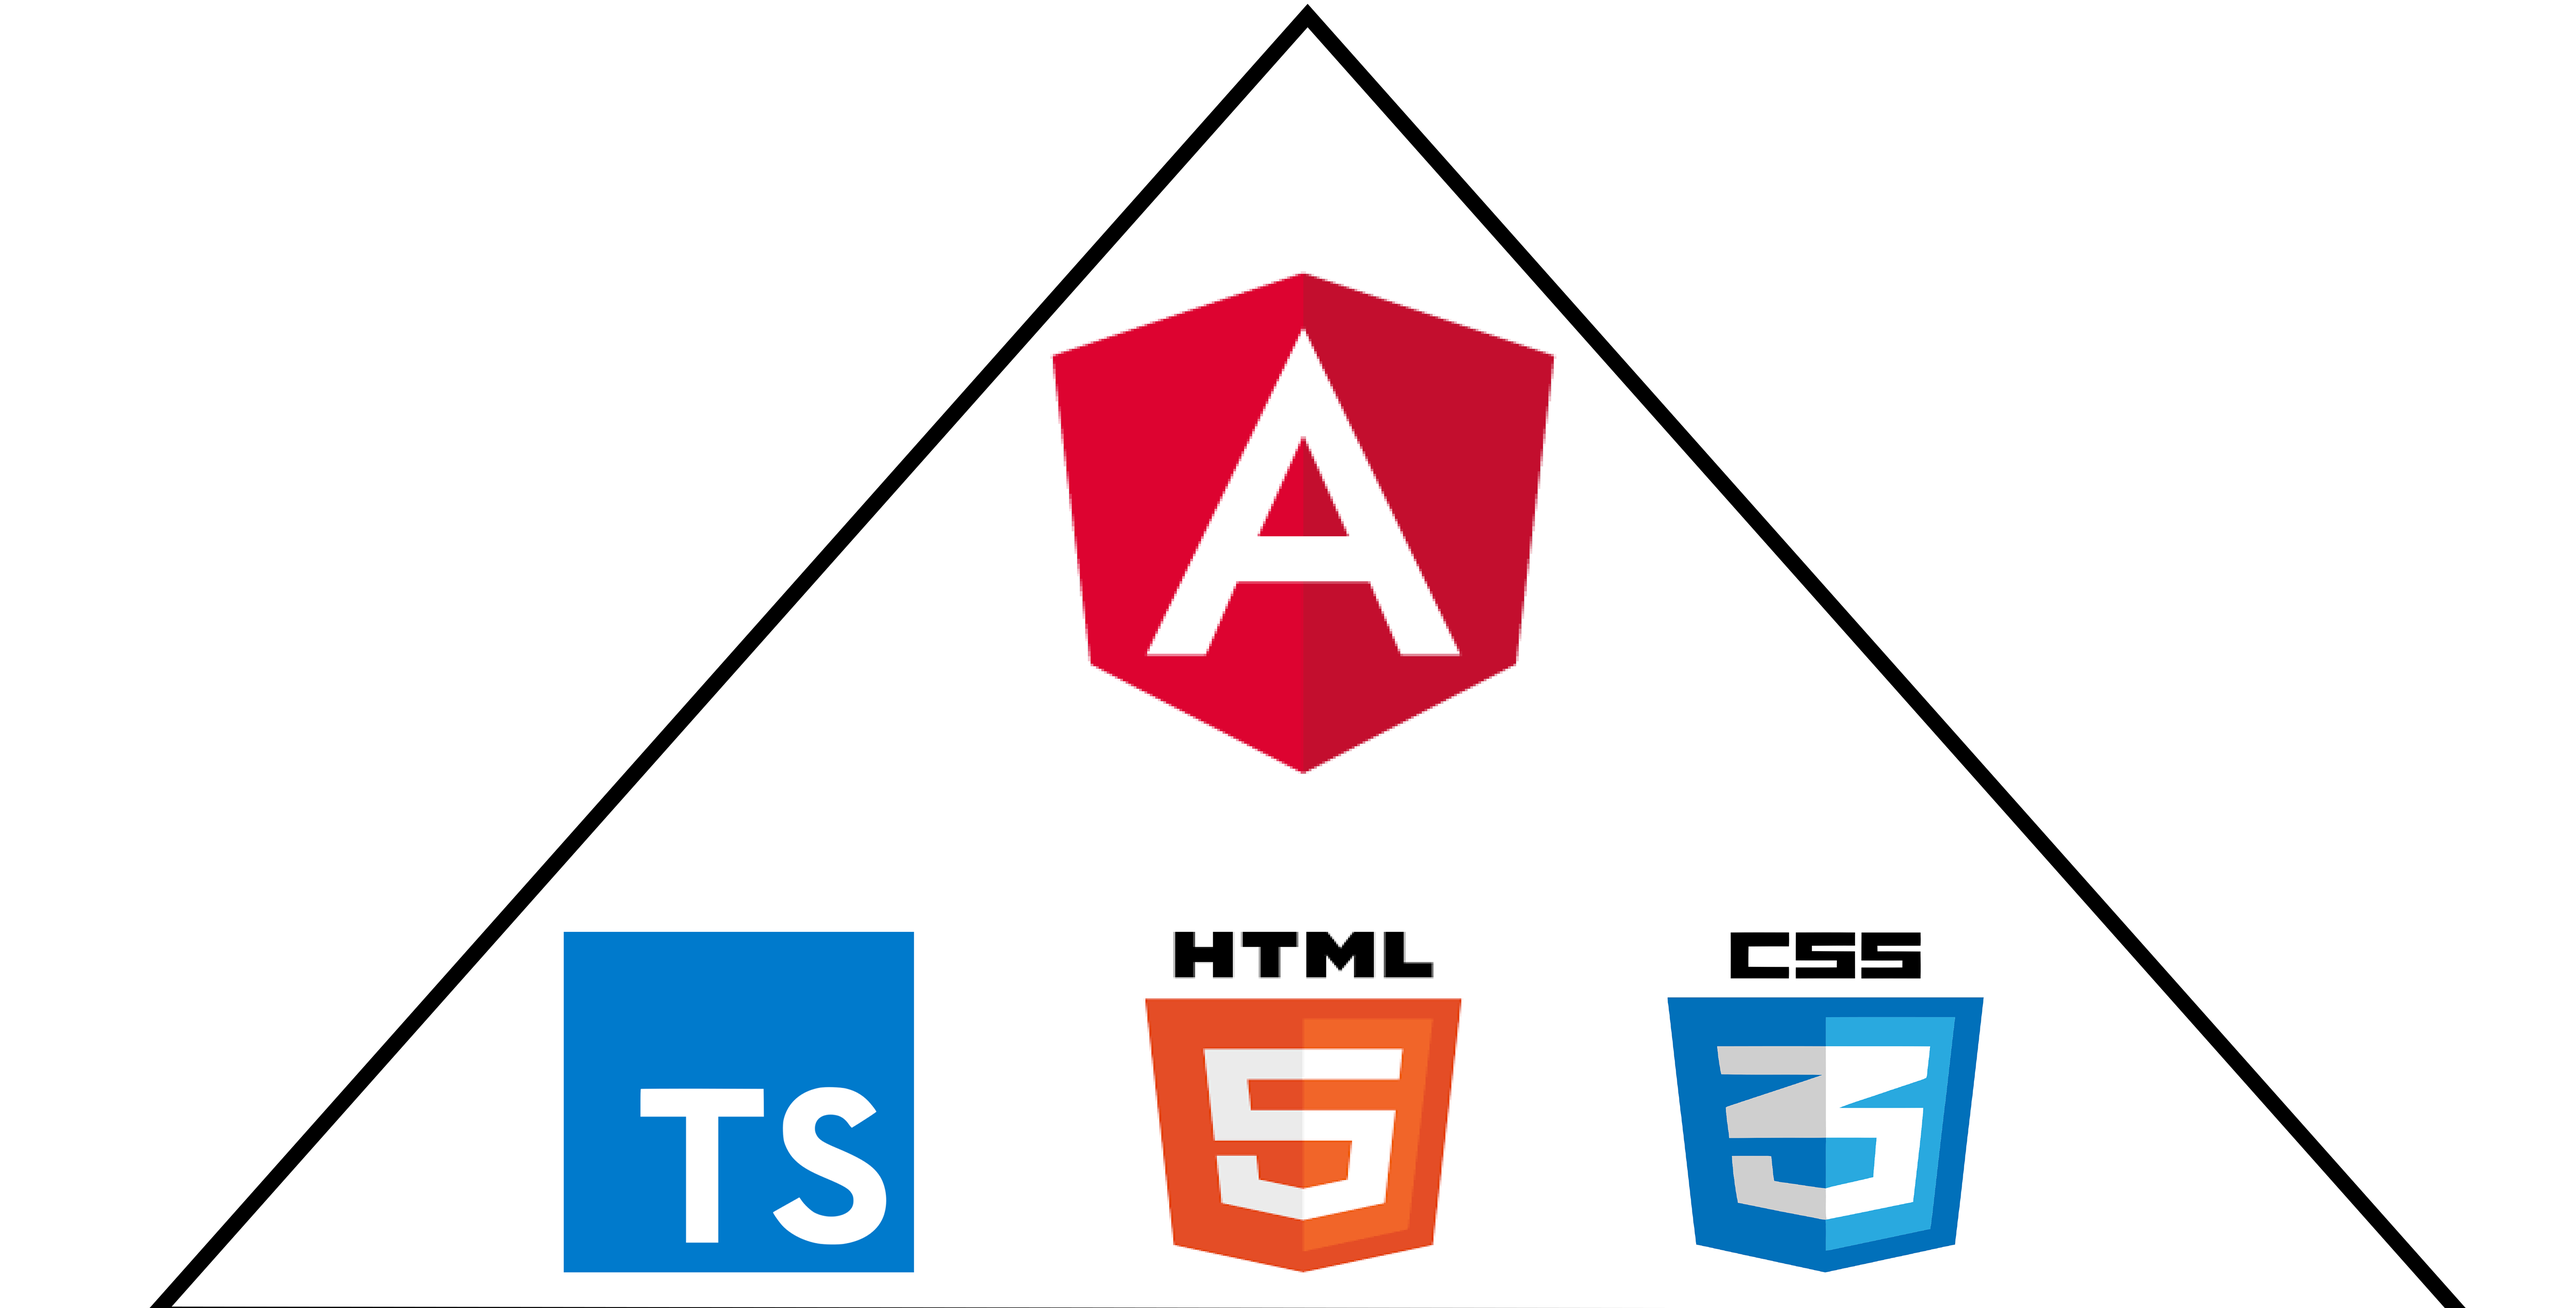
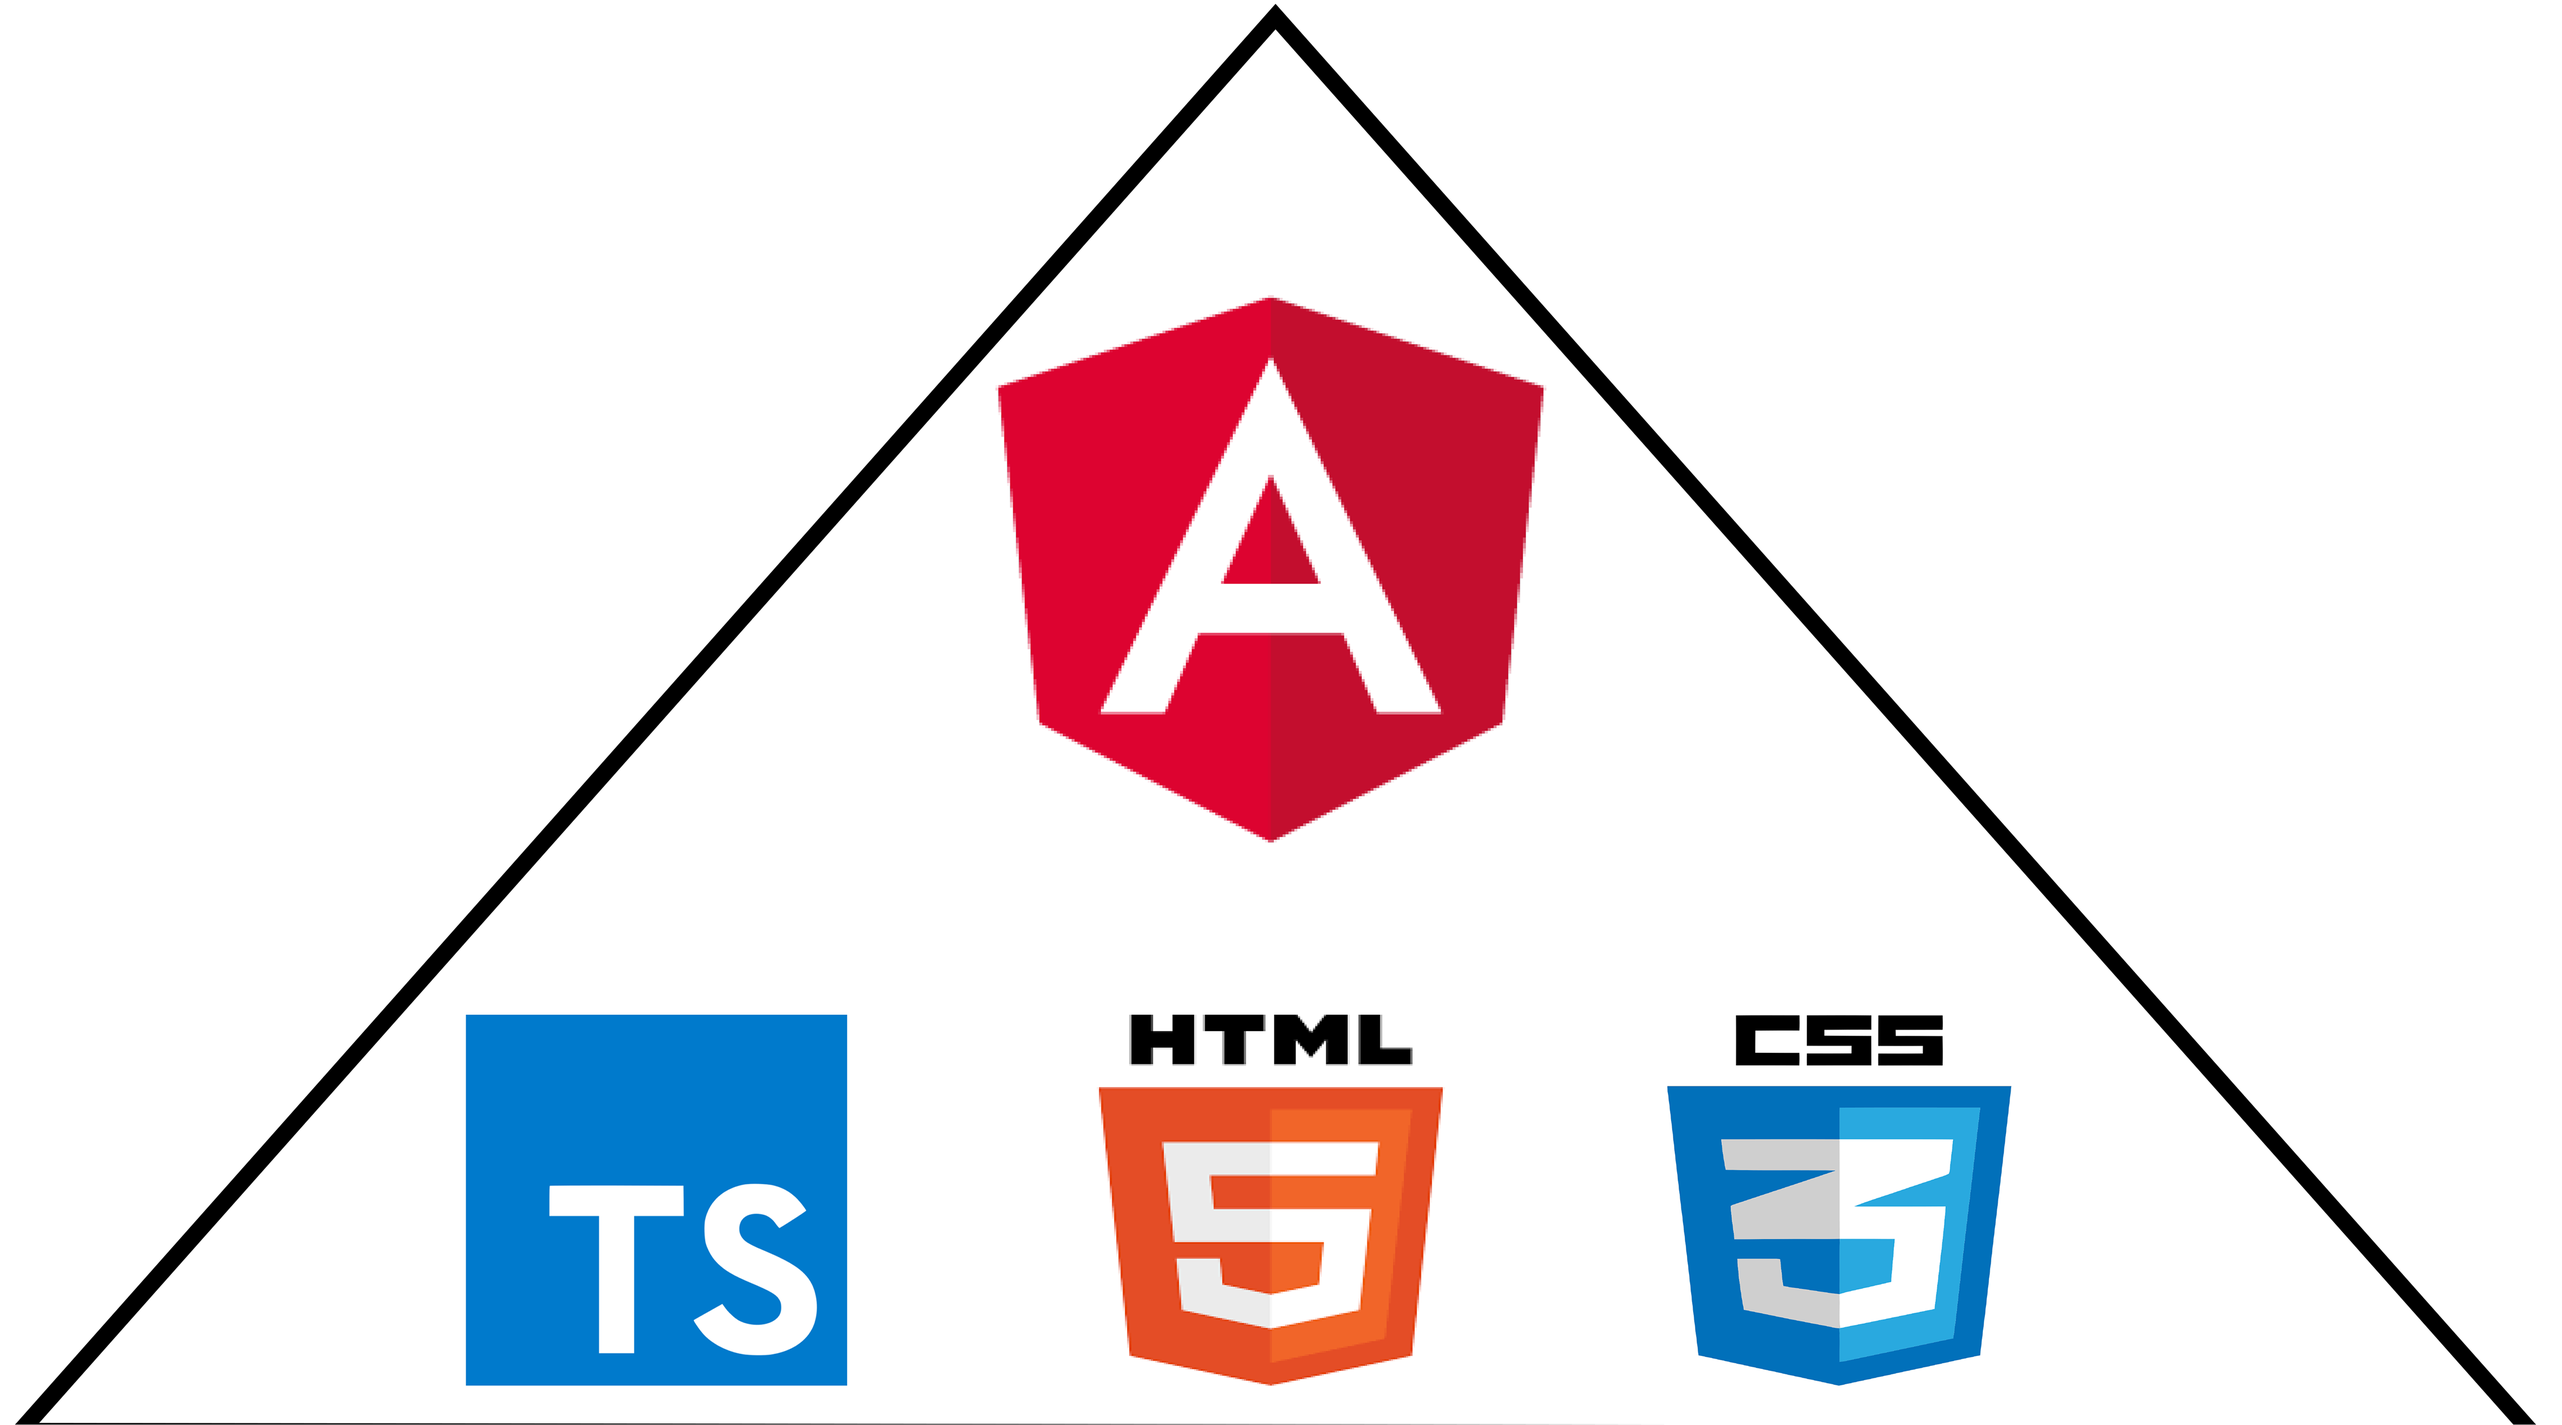
finished animations

diff --git a/prs-ng/src/app/feature/request/request-review/request-review.component.html b/prs-ng/src/app/feature/request/request-review/request-review.component.html
@@ -5,27 +5,29 @@
     <div *ngIf="isReviewer">
         <div *ngIf="!requests">Loading...</div>
         <div *ngIf="requests">
-            <table class="table table-sm">
+            <table class="table table-sm table-hover">
                 <thead>
                     <tr>
                         <th>Description</th>
-                        <th>Date Submitted</th>
-                        <th>Date Needed</th>
-                        <th>User</th>
+                        <th><a (click)="sort('request.submittedDate')">Date Submitted</a></th>
+                        <th><a (click)="sort('request.dateNeeded')">Date Needed</a></th>
+                        <th><a (click)="sort('request.user.username')">User</a></th>
                         <th>Total</th>
                         <th>Review</th>
                     </tr>
                 </thead>
                 <tbody>
-                    <tr *ngFor="let r of requests">
+                    <tr *ngFor="let r of requests | sort:sortColumn:ascOrder">
                         <td>{{r.description}}</td>
                         <td>{{r.submittedDate | date: fullDate}}</td>
                         <td>{{r.dateNeeded | date: fullDate}}</td>
                         <td>{{r.user.username}}</td>
                         <td>{{r.total | currency}}</td>
-                        <td><a routerLink="/requests/approve/{{r.id}}">
+                        <td>
+                            <a routerLink="/requests/approve/{{r.id}}">
                                 <img src="assets/review.png" width="20" height="20">
-                            </a></td>
+                            </a>
+                        </td>
                     </tr>
                 </tbody>
             </table>

diff --git a/prs-ng/src/app/feature/core/about/about.component.css b/prs-ng/src/app/feature/core/about/about.component.css
@@ -1,12 +1,79 @@
 .pyr-one {
-    margin: auto;
+    /* margin: auto; */
+    overflow: hidden;
     padding: 0 0;
+    position: relative;
+    animation: leftEnter;
+    animation-duration: 3s;
+    /* animation-delay: 2s; */
+    animation-fill-mode: forwards;
 }
+
 .pyr-two {
     margin: auto;
+    /* overflow: hidden; */
     padding: 0 0;
+    text-align: center;
+    /* animation: rightEnter; */
+    /* animation-duration: 3s; */
+    /* animation-delay: 2s; */
+    /* animation-fill-mode: forwards; */
 }
+
 .pyr-three {
+    /* overflow: hidden; */
     margin: auto;
     padding: 0 0;
+    text-align: center;
+    /* animation: leftEnter3;
+    animation-duration: 3s;
+    /* animation-delay: 3s; */
+    /* animation-fill-mode: forwards; */
 }
+
+.spin {
+    animation: rotate-scale;
+    animation-duration: 2s;
+    animation-delay: 2s;
+    animation-fill-mode: forwards;
+}
+
+@keyframes leftEnter {
+    0% {
+        left: -2000px
+    }
+    100% {
+        left: 37.7%
+    }
+}
+
+@keyframes rotate-scale {
+    0% {
+        transform: 0deg;
+    }
+    50% {
+        transform: rotateY(180deg);
+    }
+    100% {
+        transform: rotateY(360deg)
+    }
+}
+
+
+/* @keyframes leftEnter3 {
+    0% {
+        left: -2000px
+    }
+    100% {
+        left: 37.7%
+    }
+}
+
+@keyframes rightEnter {
+    0% {
+        right: -2000
+    }
+    100% {
+        left: 37.7%
+    }
+} */

diff --git a/prs-ng/src/app/feature/core/about/about.component.html b/prs-ng/src/app/feature/core/about/about.component.html
@@ -1,19 +1,19 @@
 <app-menu></app-menu>
 <div class="px-2">
-    <h4 id="titleAni" style="text-align: center;" class="display-4">About Our 
-        <img src="assets/PRS logo.svg" width="160" height="110"> Capstone</h4>
+    <h4 id="titleAni" style="text-align: center;" class="display-4">About Our
+        <img src="assets/PRS logo.svg" width="160" height="110" class="spin"> Capstone</h4>
     <div class="about-grid">
         <div class="info">
             <div></div>
             <div>
                 <div class="pyr-one">
-                    <img src="assets/pyramid-one.png" width="50%" height="50%">
+                    <img src="assets/pyramid-one.png" width="25%" height="25%"> <br>
                 </div>
                 <div class="pyr-two">
-                    <img src="assets/pyramid-two.png" width="50%" height="50%">
+                    <img src="assets/pyramid-two.png" width="63.9%" height="63%"><br>
                 </div>
                 <div class="pyr-three">
-                    <img src="assets/pyramid-three.png" width="50%" height="50%">
+                    <img src="assets/pyramid-three.png" width="63.9%" height="63%">
                 </div>
             </div>
             <div></div>

diff --git a/prs-ng/src/app/feature/request/list-line-items/list-line-items.component.html b/prs-ng/src/app/feature/request/list-line-items/list-line-items.component.html
@@ -8,7 +8,7 @@
     </h3>
     <div *ngIf="!lineItems">Loading...</div>
     <div *ngIf="lineItems">
-        <table class="table table-sm table-striped">
+        <table class="table table-sm table-striped table-hover">
             <thead>
                 <th>Product</th>
                 <th>Quantity</th>
@@ -25,11 +25,11 @@
                     <td *ngIf='request && request.status == "NEW"'>
                         <a routerLink="/requests/lineitems/edit/{{li.id}}" *ngIf="loggedInUser.id == request.user.id && request.status == 'NEW'">
                             <img src="assets/pencil-icon.png" width="20" height="20">
-                        </a> | 
+                        </a> |
                         <a *ngIf="loggedInUser.id == request.user.id && request.status == 'NEW'" (click)="deleteCheck(li.id)">
                             <img src="assets/delete.jpg" width="20" height="20">
                         </a>
-                        
+
                     </td>
                 </tr>
             </tbody>

diff --git a/prs-ng/src/app/app.module.ts b/prs-ng/src/app/app.module.ts
@@ -32,6 +32,7 @@ import { RequestApproveComponent } from './feature/request/request-approve/reque
 import { SortPipe } from './pipe/sort.pipe';
 import { HomeComponent } from './feature/core/home/home.component';
 import { AboutComponent } from './feature/core/about/about.component';
+import { FootComponent } from './feature/core/foot/foot.component';
 
 @NgModule({
   declarations: [
@@ -62,7 +63,8 @@ import { AboutComponent } from './feature/core/about/about.component';
     RequestApproveComponent,
     SortPipe,
     HomeComponent,
-    AboutComponent
+    AboutComponent,
+    FootComponent
   ],
   imports: [
     BrowserModule,

diff --git a/prs-ng/src/app/feature/user/user-list/user-list.component.html b/prs-ng/src/app/feature/user/user-list/user-list.component.html
@@ -6,7 +6,7 @@
         </a>
     </h3>
     <div *ngIf="!loggedInUser">Please login to continue...</div>
-    <table class="table table-sm table-striped" *ngIf="loggedInUser">
+    <table class="table table-sm table-striped table-hover" *ngIf="loggedInUser">
         <thead>
             <tr>
                 <th><a (click)="sort('username')">Username</a></th>

diff --git a/prs-ng/src/app/feature/product/product-list/product-list.component.html b/prs-ng/src/app/feature/product/product-list/product-list.component.html
@@ -5,7 +5,7 @@
             <img width="20" height="20" src="assets/add-icon.png" title="Add New">
         </a>
     </h3>
-    <table class="table table-sm table-striped">
+    <table class="table table-sm table-striped table-hover">
         <thead>
             <tr>
                 <th><a (click)="sort('vendor.name')">Vendor</a></th>

diff --git a/prs-ng/src/app/feature/request/request-list/request-list.component.html b/prs-ng/src/app/feature/request/request-list/request-list.component.html
@@ -7,7 +7,7 @@
     </h3>
     <div *ngIf="!loggedInUser">Please login to continue...</div>
     <div *ngIf="loggedInUser">
-        <table class="table table-sm table-striped">
+        <table class="table table-sm table-striped table-hover">
             <thead>
                 <tr>
                     <th>Owner</th>

diff --git a/prs-ng/src/app/feature/core/foot/foot.component.ts b/prs-ng/src/app/feature/core/foot/foot.component.ts
@@ -1,0 +1,15 @@
+import { Component, OnInit } from '@angular/core';
+
+@Component({
+  selector: 'app-foot',
+  templateUrl: './foot.component.html',
+  styleUrls: ['./foot.component.css']
+})
+export class FootComponent implements OnInit {
+
+  constructor() { }
+
+  ngOnInit() {
+  }
+
+}

diff --git a/prs-ng/src/app/feature/core/foot/foot.component.html b/prs-ng/src/app/feature/core/foot/foot.component.html
@@ -1,0 +1,5 @@
+<footer class="page-footer font-small">
+    <div class="container-fluid text-center">
+        Max Train <img src="assets/PRS logo.svg" width="40" height="40"> | 2020
+    </div>
+</footer>

diff --git a/prs-ng/src/app/feature/core/foot/foot.component.css b/prs-ng/src/app/feature/core/foot/foot.component.css
@@ -1,0 +1,6 @@
+footer {
+    position: absolute;
+    bottom: 0;
+    width: 100%;
+    background-color: lightgray;
+}

diff --git a/prs-ng/src/app/app.component.css b/prs-ng/src/app/app.component.css
@@ -1,3 +1,3 @@
 router-outlet {
-    padding: 5px,5px,5px,5px;
+    padding: 5px, 5px, 5px, 5px;
 }
